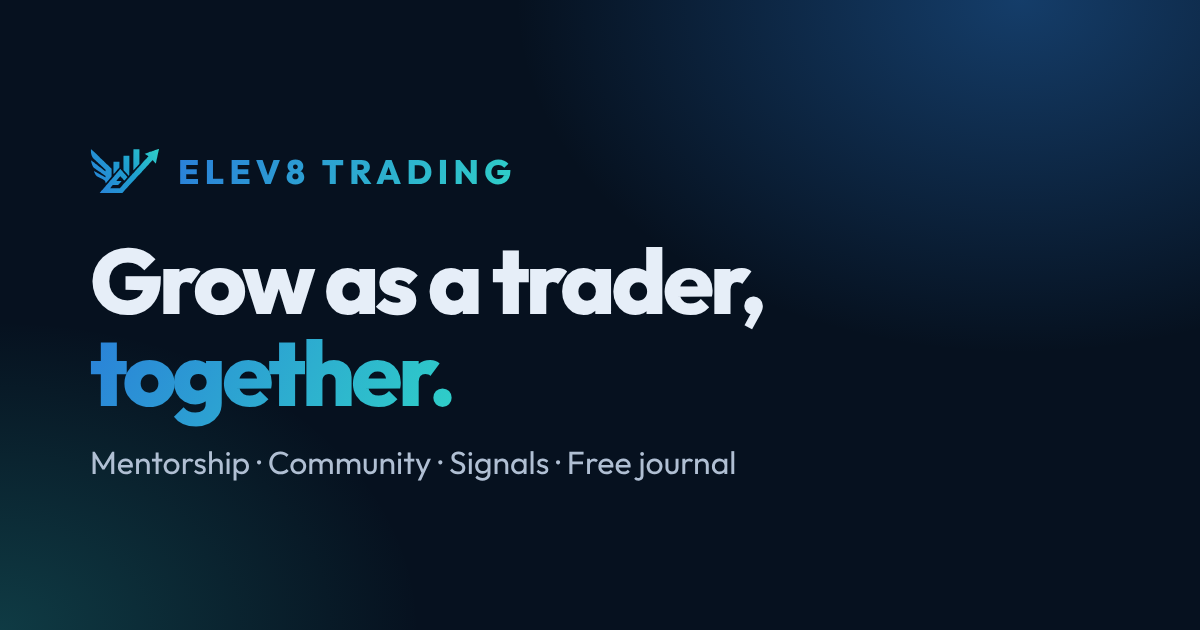
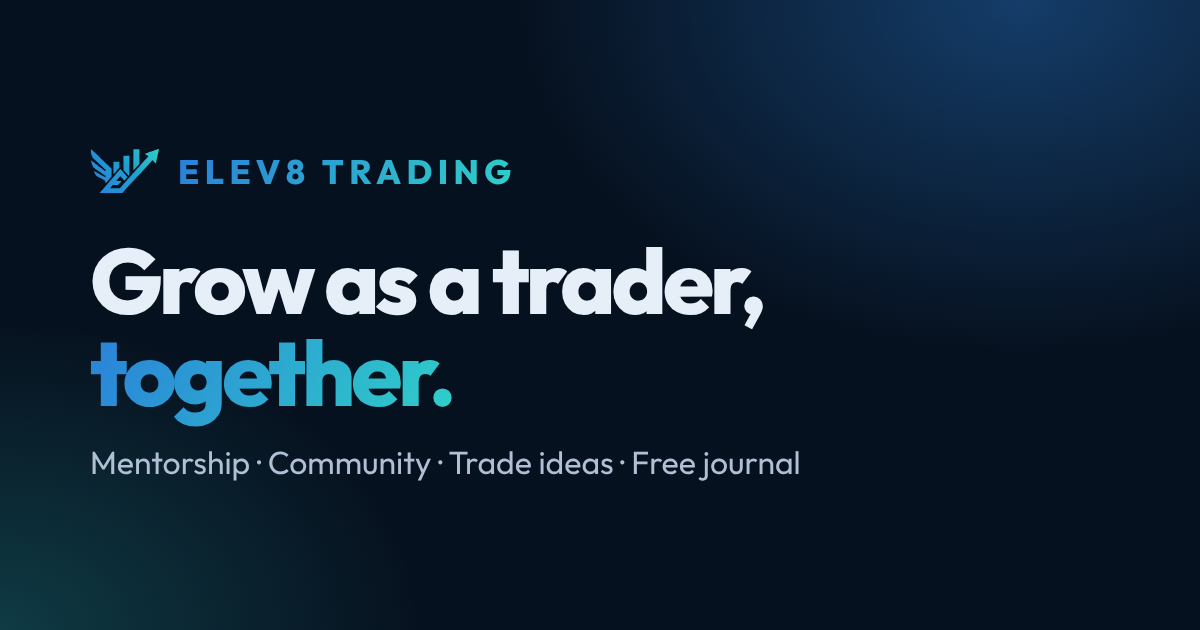
Say trade ideas instead of signals
Site, privacy, terms, link preview image and README. The section link is now #trade-ideas.

Claude-Session: https://claude.ai/code/session_01Me6xcoLXyGnJscawvYqR4g

Changed region(s): [[0.37, 0.6937, 0.6783, 0.754]]

diff --git a/docs/index.html b/docs/index.html
@@ -28,7 +28,7 @@
 
 <header class="nav"><div class="wrap">
 <a class="lg" href="#top" aria-label="ELEV8 Trading home"><img src="assets/mark.svg" alt=""><span>ELEV8<small>TRADING</small></span></a>
-<nav aria-label="Main"><a href="#offer">What we offer</a><a href="#mentorship">Mentorship</a><a href="#signals">Signals</a><a href="#team">Meet the team</a><a href="#faq">FAQ</a></nav>
+<nav aria-label="Main"><a href="#offer">What we offer</a><a href="#mentorship">Mentorship</a><a href="#trade-ideas">Trade ideas</a><a href="#team">Meet the team</a><a href="#faq">FAQ</a></nav>
 <span class="sp"></span><a class="ghost" href="https://elev8tradingjournal.com/">Journal</a><a class="btn p" href="#offer">Start now</a></div></header>
 
 <main id="top">
@@ -37,7 +37,7 @@
 <h1>Welcome to<br><span class="g">ELEV8 Trading.</span></h1>
 <p class="lead">A home for traders who want to grow. Learn with a mentor, trade alongside a community, and keep track of your progress, all in one place.</p>
 <div class="ctas"><a class="btn p" href="#offer">Start now</a><a class="btn" href="https://discord.gg/wYvXZ4xwF" target="_blank" rel="noopener"><svg viewBox="0 0 24 24"><path d="M4 6h16v10H8l-4 4V6z"/></svg>Join the free Discord</a></div>
-<div class="pills"><span>Mentorship</span><span>Premium Discord</span><span>Telegram signals</span><span>Free journal</span></div></div>
+<div class="pills"><span>Mentorship</span><span>Premium Discord</span><span>Telegram trade ideas</span><span>Free journal</span></div></div>
 
 <div class="scene" aria-hidden="true">
 <div class="phone"><div><img src="assets/journal-phone.jpg" alt=""></div></div>
@@ -64,8 +64,8 @@
 <h3>Premium Discord</h3><p>Our private community. Daily market chat, weekly outlooks, live sessions and a crew that has your back.</p>
 <a class="lnk" href="https://discord.gg/wYvXZ4xwF" target="_blank" rel="noopener">Get early access <svg viewBox="0 0 24 24"><path d="M5 12h14M13 6l6 6-6 6"/></svg></a></div>
 <div class="of s2"><div class="tp"><span class="ic"><svg viewBox="0 0 24 24"><path d="M21 4L3 11l6 2 2 6 3-4 5 4 2-15z"/><path d="M9 13l8-6"/></svg></span><span class="badge fr">Free</span></div>
-<h3>Telegram signals</h3><p>Trade ideas straight to your phone. Free when you open a Vantage account through our link.</p>
-<a class="lnk" href="#signals">How to get access <svg viewBox="0 0 24 24"><path d="M5 12h14M13 6l6 6-6 6"/></svg></a></div>
+<h3>Telegram trade ideas</h3><p>Trade ideas straight to your phone. Free when you open a Vantage account through our link.</p>
+<a class="lnk" href="#trade-ideas">How to get access <svg viewBox="0 0 24 24"><path d="M5 12h14M13 6l6 6-6 6"/></svg></a></div>
 <div class="of s2"><div class="tp"><span class="ic"><svg viewBox="0 0 24 24"><circle cx="9" cy="8" r="3.5"/><path d="M3 20c0-3.5 2.7-6 6-6s6 2.5 6 6"/><path d="M16 4.5a3.5 3.5 0 010 7M18 14c2 .8 3 2.8 3 6"/></svg></span><span class="badge fr">Free</span></div>
 <h3>Free community</h3><p>Not ready to commit? Join the free Discord, say hello and see what ELEV8 is about.</p>
 <a class="lnk" href="https://discord.gg/wYvXZ4xwF" target="_blank" rel="noopener">Join for free <svg viewBox="0 0 24 24"><path d="M5 12h14M13 6l6 6-6 6"/></svg></a></div>
@@ -116,17 +116,17 @@
 <div class="ctas" style="justify-content:center;margin-top:24px"><a class="btn" href="https://discord.gg/wYvXZ4xwF" target="_blank" rel="noopener">Join the free Discord</a></div></div>
 </div></div></section>
 
-<section class="alt" id="signals"><div class="wrap sig">
-<div><span class="eb">Telegram signals</span><h2 style="margin:18px 0">Free access.<br><span class="g">Three steps.</span></h2>
-<p class="lead">Open a Vantage account through the ELEV8 link and you get the signals channel at no cost.</p>
+<section class="alt" id="trade-ideas"><div class="wrap sig">
+<div><span class="eb">Telegram trade ideas</span><h2 style="margin:18px 0">Free access.<br><span class="g">Three steps.</span></h2>
+<p class="lead">Open a Vantage account through the ELEV8 link and you get the trade ideas channel at no cost.</p>
 <div class="how3">
 <div class="h3"><span class="n">1</span><p><b>Sign up with Vantage</b><span>Use the ELEV8 partner link to open your account.</span></p></div>
 <div class="h3"><span class="n">2</span><p><b>Send us your account ID</b><span>Message it to us on Instagram or in the Discord.</span></p></div>
 <div class="h3"><span class="n">3</span><p><b>Get added to Telegram</b><span>We check it and add you to the channel.</span></p></div></div>
-<div class="ctas"><a class="btn p" id="vantageBtn" href="#signals" aria-disabled="true">Vantage link coming soon</a><a class="btn" href="https://www.instagram.com/elev8trading_/" target="_blank" rel="noopener">Message us</a></div>
-<p class="note">ELEV8 is a Vantage partner and may earn a commission when you open an account through this link. Signals are trade ideas shared for education, not financial advice. CFDs are complex and carry a high risk of losing money quickly because of leverage. 18+ only.</p></div>
-<div class="tg" aria-hidden="true"><div class="bar2"><span class="av"><img src="assets/mark.svg" alt=""></span><div><b>ELEV8 Signals</b><small>Telegram channel</small></div></div>
-<div class="bub">Welcome to ELEV8 Signals. Trade ideas land here, with the reasoning behind each one.<time>08:00</time></div>
+<div class="ctas"><a class="btn p" id="vantageBtn" href="#trade-ideas" aria-disabled="true">Vantage link coming soon</a><a class="btn" href="https://www.instagram.com/elev8trading_/" target="_blank" rel="noopener">Message us</a></div>
+<p class="note">ELEV8 is a Vantage partner and may earn a commission when you open an account through this link. Trade ideas are shared for education, not financial advice. CFDs are complex and carry a high risk of losing money quickly because of leverage. 18+ only.</p></div>
+<div class="tg" aria-hidden="true"><div class="bar2"><span class="av"><img src="assets/mark.svg" alt=""></span><div><b>ELEV8 Trade Ideas</b><small>Telegram channel</small></div></div>
+<div class="bub">Welcome to ELEV8 Trade Ideas. Trade ideas land here, with the reasoning behind each one.<time>08:00</time></div>
 <div class="bub">Check the news calendar before every session. High impact data today at 13:30.<time>08:02</time></div>
 <div class="bub">Manage your risk, and safe trading!<time>08:03</time></div></div>
 </div></section>
@@ -142,7 +142,7 @@
 <div class="center"><span class="eb">Getting started</span><h2 style="margin-top:18px">Joining is <span class="g">easy.</span></h2></div>
 <div class="start">
 <div class="sp1"><div class="n">1</div><h3>Say hello</h3><p>Join the free Discord and introduce yourself to the community.</p></div>
-<div class="sp1"><div class="n">2</div><h3>Choose your path</h3><p>Mentorship, signals, premium, or just the free journal.</p></div>
+<div class="sp1"><div class="n">2</div><h3>Choose your path</h3><p>Mentorship, trade ideas, premium, or just the free journal.</p></div>
 <div class="sp1"><div class="n">3</div><h3>Grow with us</h3><p>Learn, ask questions, and track your progress as you go.</p></div></div>
 </div></section>
 
@@ -164,10 +164,10 @@
 <div class="qa">
 <details open><summary>I'm a complete beginner. Is this for me?</summary><p>Absolutely. The Beginner level of the mentorship and the free Discord are made for people starting from zero.</p></details>
 <details><summary>How does mentorship work?</summary><p>Fill in the <a href="#apply">application form</a>. Kacper reads every application and replies by email to talk about your level, your goals, the format and the price.</p></details>
-<details><summary>How much does it cost?</summary><p>The free Discord, the Telegram signals (through our Vantage link) and the journal are free. Mentorship and premium Discord prices are being finalised. Apply or join the free Discord to hear first.</p></details>
-<details><summary>How do I get the Telegram signals?</summary><p>Open a Vantage account using the ELEV8 partner link, send us your account ID on Instagram or in the Discord, and we'll add you to the channel.</p></details>
+<details><summary>How much does it cost?</summary><p>The free Discord, the Telegram trade ideas (through our Vantage link) and the journal are free. Mentorship and premium Discord prices are being finalised. Apply or join the free Discord to hear first.</p></details>
+<details><summary>How do I get the Telegram trade ideas?</summary><p>Open a Vantage account using the ELEV8 partner link, send us your account ID on Instagram or in the Discord, and we'll add you to the channel.</p></details>
 <details><summary>Is the trading journal really free?</summary><p>Yes. The ELEV8 Journal lives at <a href="https://elev8tradingjournal.com/">elev8tradingjournal.com</a> and is free for everyone.</p></details>
-<details><summary>Is this financial advice?</summary><p>No. Everything ELEV8 shares, including mentorship, signals and community posts, is for education only. You make your own decisions and you're responsible for your own risk.</p></details>
+<details><summary>Is this financial advice?</summary><p>No. Everything ELEV8 shares, including mentorship, trade ideas and community posts, is for education only. You make your own decisions and you're responsible for your own risk.</p></details>
 </div></div></section>
 
 <div class="cta" style="padding-top:120px"><div class="wrap"><div class="ctab"><img src="assets/mark.svg" alt="">
@@ -177,7 +177,7 @@
 
 <footer><div class="wrap"><div class="fg">
 <div><a class="lg" href="#top"><img src="assets/mark.svg" alt=""><span>ELEV8<small>TRADING</small></span></a><p>A welcoming home for traders at every level.</p></div>
-<div><h4>Offers</h4><a href="#mentorship">Mentorship</a><a href="#offer">Premium Discord</a><a href="#signals">Telegram signals</a><a href="https://elev8tradingjournal.com/">Trading Journal</a></div>
+<div><h4>Offers</h4><a href="#mentorship">Mentorship</a><a href="#offer">Premium Discord</a><a href="#trade-ideas">Telegram trade ideas</a><a href="https://elev8tradingjournal.com/">Trading Journal</a></div>
 <div><h4>Community</h4><a href="https://discord.gg/wYvXZ4xwF" target="_blank" rel="noopener">Free Discord</a><a href="https://www.instagram.com/elev8trading_/" target="_blank" rel="noopener">Instagram</a><a href="https://www.tiktok.com/@elev8trading_" target="_blank" rel="noopener">TikTok</a></div>
 <div><h4>ELEV8</h4><a href="#team">Meet the team</a><a href="#faq">FAQ</a><a href="privacy/">Privacy</a><a href="terms/">Terms</a></div></div>
 <div class="legal"><b style="color:var(--t2)">Education only, not financial advice.</b> ELEV8 is not affiliated with any prop firm. ELEV8 is a Vantage partner and may earn a commission from accounts opened through its link. Trading CFDs, forex and indices carries a high risk of losing money quickly because of leverage. Past results do not guarantee future results. 18+. © <span id="yr">2026</span> ELEV8 Trading.</div></div></footer>

diff --git a/docs/terms/index.html b/docs/terms/index.html
@@ -20,12 +20,12 @@
 <span class="sp"></span><a class="ghost" href="../">Back to home</a></div></header>
 <main class="doc">
 <h1>Terms of use</h1><p class="upd">Last updated 12 November 2026</p>
-<p>By using this website and ELEV8's community, signals or mentorship, you agree to these terms.</p>
+<p>By using this website and ELEV8's community, trade ideas or mentorship, you agree to these terms.</p>
 <h2>Education only, not financial advice</h2>
-<p><b>Everything ELEV8 shares is for education only.</b> This includes this website, mentorship, the Discord, Telegram signals, trade ideas and our social media. None of it is financial, investment or trading advice, or a recommendation to buy or sell anything. ELEV8 is not a broker, doesn't hold money and doesn't place trades for you.</p>
+<p><b>Everything ELEV8 shares is for education only.</b> This includes this website, mentorship, the Discord, Telegram trade ideas and our social media. None of it is financial, investment or trading advice, or a recommendation to buy or sell anything. ELEV8 is not a broker, doesn't hold money and doesn't place trades for you.</p>
 <p>Trading forex, CFDs, indices, commodities and other leveraged products carries a high risk of losing money quickly and isn't suitable for everyone. Only trade with money you can afford to lose. Past results, including any results we share, don't guarantee future results. You're responsible for your own trading decisions.</p>
-<h2>Signals</h2>
-<p>Telegram signals are trade ideas shared for educational purposes, with the reasoning behind them. They may be wrong, late or not suit your situation. You decide whether to act on them, and how much to risk.</p>
+<h2>Trade ideas</h2>
+<p>Telegram trade ideas are shared for educational purposes, with the reasoning behind them. They may be wrong, late or not suit your situation. You decide whether to act on them, and how much to risk.</p>
 <h2>Partner links</h2>
 <p>ELEV8 is a Vantage partner and may earn a commission when you open an account through our link. This doesn't cost you anything extra. Vantage is a separate company with its own terms; we don't control its services, and your account and funds are with Vantage, not ELEV8.</p>
 <p>ELEV8 is not affiliated with any prop firm.</p>
@@ -34,11 +34,11 @@
 <h2>Community rules</h2>
 <p>Be respectful, don't spam or advertise, don't share other members' personal information, and don't present anything as guaranteed profit. We can remove anyone from the community or channels who breaks these rules.</p>
 <h2>Age</h2>
-<p>You must be 18 or over to use ELEV8's mentorship, signals or community.</p>
+<p>You must be 18 or over to use ELEV8's mentorship, trade ideas or community.</p>
 <h2>Our content</h2>
-<p>The ELEV8 name, logo, website and content belong to ELEV8. Please don't copy or resell our content, signals or materials without permission.</p>
+<p>The ELEV8 name, logo, website and content belong to ELEV8. Please don't copy or resell our content, trade ideas or materials without permission.</p>
 <h2>Liability</h2>
-<p>To the extent the law allows, ELEV8 isn't liable for any trading losses or other losses from using this website, our signals, community or mentorship. Nothing in these terms limits rights you have under Irish or EU consumer law.</p>
+<p>To the extent the law allows, ELEV8 isn't liable for any trading losses or other losses from using this website, our trade ideas, community or mentorship. Nothing in these terms limits rights you have under Irish or EU consumer law.</p>
 <h2>Changes and law</h2>
 <p>We may update these terms and will change the date above when we do. These terms are governed by the laws of Ireland.</p>
 <h2>Contact</h2>

diff --git a/docs/privacy/index.html b/docs/privacy/index.html
@@ -38,7 +38,7 @@
 <p>You can ask to see, correct or delete your data, object to how we use it, or ask for a copy of it. Email <a href="mailto:privacy@elev8tradingjournal.com">privacy@elev8tradingjournal.com</a> and we'll reply within one month.</p>
 <p>If you're unhappy with how we've handled your data, please contact us first. You also have the right to complain to the Data Protection Commission in Ireland at <a href="https://www.dataprotection.ie" target="_blank" rel="noopener">dataprotection.ie</a>, or to the data protection authority where you live.</p>
 <h2>Age</h2>
-<p>ELEV8's mentorship, signals and community are only for people aged 18 and over. We don't knowingly collect data from anyone under 18.</p>
+<p>ELEV8's mentorship, trade ideas and community are only for people aged 18 and over. We don't knowingly collect data from anyone under 18.</p>
 <h2>Contact</h2>
 <p>ELEV8 Trading, Ireland · <a href="mailto:privacy@elev8tradingjournal.com">privacy@elev8tradingjournal.com</a></p>
 </main>

diff --git a/tools/og.html b/tools/og.html
@@ -5,4 +5,4 @@ h1{font-size:92px;font-weight:800;letter-spacing:-.045em;line-height:1;margin:40
 .g{background:linear-gradient(120deg,#2a7fd9,#2fd0c8);-webkit-background-clip:text;color:transparent}
 p{font-size:32px;color:#b0bfd3;margin:0}
 </style></head><body><div class="lk"><img src="../docs/assets/mark.svg"><span class="g">ELEV8 TRADING</span></div>
-<h1>Grow as a trader,<br><span class="g">together.</span></h1><p>Mentorship · Community · Signals · Free journal</p></body></html>
+<h1>Grow as a trader,<br><span class="g">together.</span></h1><p>Mentorship · Community · Trade ideas · Free journal</p></body></html>

diff --git a/README.md b/README.md
@@ -1,6 +1,6 @@
 # ELEV8 Trading website
 
-The ELEV8 Trading brand site: mentorship, premium Discord, Telegram signals and the free ELEV8 Journal.
+The ELEV8 Trading brand site: mentorship, premium Discord, Telegram trade ideas and the free ELEV8 Journal.
 The journal itself lives in its own repo and at elev8tradingjournal.com; this site only links to it.
 
 ## Layout
